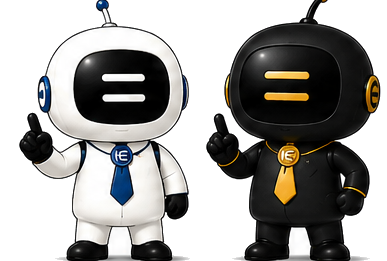
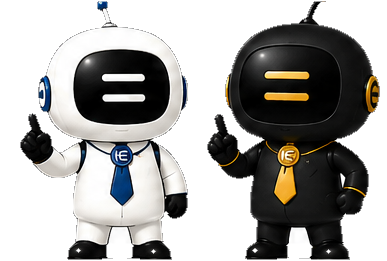
キャラの「切り抜き感」を解消（縁の白フチ除去・焼き付き影削除・接地影を追加）
- スプライトの輪郭1pxを削って再フェザリング（白背景由来の明るいフチを除去）
- 白背景時代の薄グレー床影を画像から削除
- フィナーレとサムネイルの足元に柔らかい接地影を敷いてシーンに馴染ませた
  （キャラ本体は無加工＝公式使用ルール準拠）

diff --git a/index.html b/index.html
@@ -124,7 +124,9 @@ header.scr{background:rgba(34,34,33,.88);backdrop-filter:saturate(140%) blur(16p
 .hero-finale{position:absolute;inset:0;z-index:2;display:flex;align-items:center;justify-content:center;opacity:0;pointer-events:none;transition:opacity 1.6s var(--ease) .5s;background:radial-gradient(640px 520px at 50% 46%, rgba(201,163,91,.12), rgba(201,163,91,0) 70%)}
 .hero-finale.on{opacity:1}
 .hf-logo{width:min(320px,58vw);height:auto;animation:bob 6s ease-in-out infinite;filter:drop-shadow(0 20px 44px rgba(0,0,0,.6))}
-.hf-kun{position:absolute;top:50%;height:auto;filter:drop-shadow(0 16px 26px rgba(0,0,0,.55));transition:transform 1.6s var(--ease) .7s}
+.hf-side{position:absolute;top:50%;transition:transform 1.6s var(--ease) .7s}
+.hf-side img{width:100%;height:auto;display:block;filter:drop-shadow(0 10px 18px rgba(0,0,0,.45))}
+.hf-side::after{content:"";position:absolute;left:10%;right:10%;bottom:-13px;height:26px;border-radius:50%;background:radial-gradient(ellipse at center, rgba(0,0,0,.55) 0%, rgba(0,0,0,.25) 45%, rgba(0,0,0,0) 72%)}
 .hf-e{width:150px;left:calc(50% - 350px);transform:translate(-40px,-50%);}
 .hf-c{width:145px;right:calc(50% - 350px);transform:translate(40px,-50%);}
 .hero-finale.on .hf-e{transform:translate(0,-50%)}
@@ -577,9 +579,9 @@ footer{background:#1a1a19;color:var(--body-c);padding:80px 0 36px;border-top:1px
     <source src="video/equalcore-cm.mp4" type="video/mp4">
   </video>
   <div class="hero-finale" id="heroFinale">
-    <img class="hf-kun hf-e" src="img/kun-equal.png" alt="イコール君" width="197" height="261">
+    <div class="hf-side hf-e"><img src="img/kun-equal.png" alt="イコール君" width="197" height="261"></div>
     <img class="hf-logo" src="img/logo-full.png" alt="Equal Core ＝ 会社を整えるOS" width="560" height="534">
-    <img class="hf-kun hf-c" src="img/kun-core.png" alt="コア君" width="190" height="261">
+    <div class="hf-side hf-c"><img src="img/kun-core.png" alt="コア君" width="190" height="261"></div>
   </div>
   <button class="hero-btn hero-sound" id="heroSound" onclick="toggleHeroSound()" aria-label="CMの音声を切り替え">♪ 音声を出す</button>
   <button class="hero-btn hero-skip" id="heroSkip" onclick="endCM()" aria-label="CMをスキップ">スキップ →</button>
